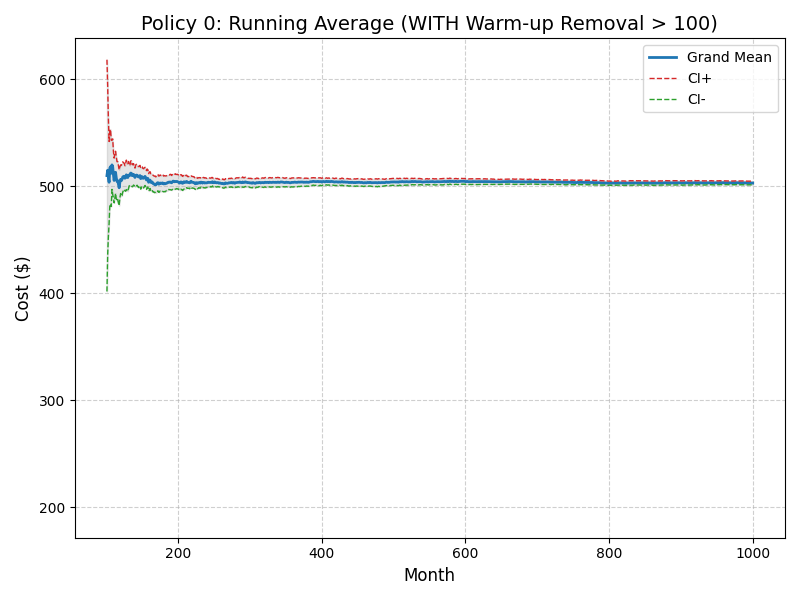
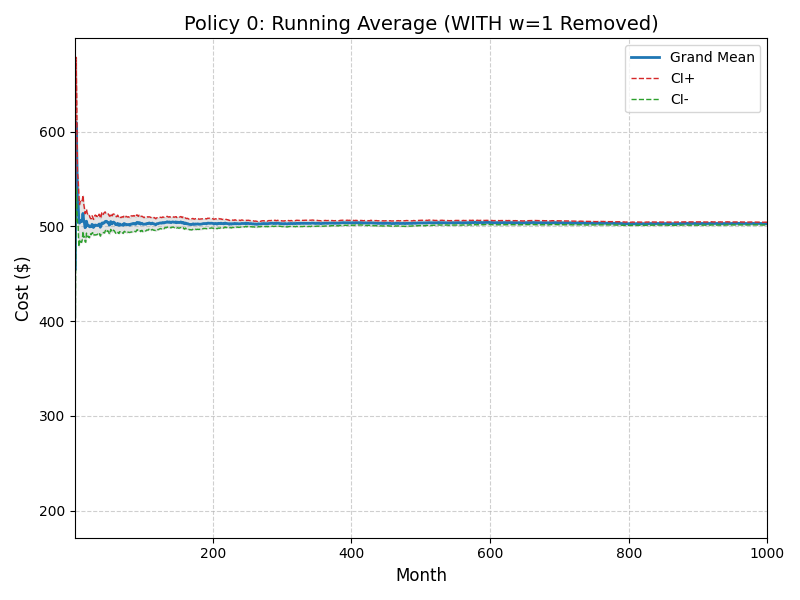
warmup

diff --git a/Assignment 2/markovchains.py b/Assignment 2/markovchains.py
@@ -3,7 +3,7 @@ import matplotlib.pyplot as plt
 import scipy.stats as st
 import pandas as pd
 
-# Define policies
+# Policies
 policies = {
     "Policy 0": {"P": np.array([[0.1, 0.9, 0.0, 0.0], [0.2, 0.0, 0.8, 0.0], [0.5, 0.0, 0.0, 0.5], [1.0, 0.0, 0.0, 0.0]]), "cost": [600, 200, 500, 1000]},
     "Policy 1": {"P": np.array([[0.1, 0.9, 0.0], [0.2, 0.0, 0.8], [1.0, 0.0, 0.0]]), "cost": [600, 200, 500]},
@@ -13,11 +13,9 @@ policies = {
 
 number_periods = 1000
 K = 20
-warmup_period = 100
-window_size = 30 # For Welch's moving average smoothing
-np.random.seed(42) # For reproducible results
+window_size = 15 # Window for Welch's moving average smoothing
+np.random.seed(42)
 
-# Matrix to store the exact cost incurred IN EACH MONTH
 # Shape: (K runs, N periods)
 raw_costs = {p: np.zeros((K, number_periods)) for p in policies}
 
@@ -31,54 +29,75 @@ for p_name, data in policies.items():
     F_s0[0] = 1.0
 
     for k in range(K):
-        # Initial state
         r = np.random.rand()
         i2 = 0
         while i2 < nr_states - 1 and r > F_s0[i2]: i2 += 1
         current_state = i2
         
         for i1 in range(1, number_periods + 1):
-            # Next state
             r = np.random.rand()
             next_state = 0
             while next_state < nr_states - 1 and r > F[current_state][next_state]:
                 next_state += 1
             current_state = next_state
             
-            # Record raw cost
             raw_costs[p_name][k, i1-1] = cost[current_state]
+
+
+# --- 2. DYNAMICALLY DETERMINE WARM-UP PERIOD (Multiple Replication Method) ---
+# We use Policy 0 as it has the most states and takes the longest to stabilize
+ensemble_avg_p0 = np.mean(raw_costs["Policy 0"], axis=0)
+smoothed_avg_p0 = pd.Series(ensemble_avg_p0).rolling(window=window_size, min_periods=1).mean().values
+
+# Find the long-term steady-state mean (average of the last 500 periods)
+long_term_mean = np.mean(smoothed_avg_p0[500:])
+
+# Define a strict tolerance band (e.g., within 2% of the long-term mean)
+tolerance = 0.02 * long_term_mean
+
+# Scan the smoothed curve to find where it permanently enters the tolerance band
+determined_warmup = 1
+for i in range(len(smoothed_avg_p0) - 50):
+    # Check if the next 50 periods all stay within the tolerance band
+    if np.all(np.abs(smoothed_avg_p0[i:i+50] - long_term_mean) < tolerance):
+        determined_warmup = i
+        break
+
+# We now have a scientifically backed warm-up period!
+warmup_period = max(determined_warmup, 1) # Ensure it is at least 1
+print(f"*** Welch's Analysis Complete ***")
+print(f"The algorithm determined the system reaches steady-state at Month {warmup_period}.")
+print(f"Applying w={warmup_period} to all subsequent Confidence Interval calculations...\n")
 
 results_std = []
 results_wu = []
 
-# --- 2. MULTIPLE REPLICATION METHOD & PLOTTING ---
+# --- 3. CALCULATIONS & PLOTTING ---
 for idx, p_name in enumerate(policies):
     data_raw = raw_costs[p_name] 
     
     # =========================================================
     # GRAPH A: MULTIPLE REPLICATION METHOD (Welch's Warm-up Check)
     # =========================================================
-    # Step 1: Ensemble Average across K runs for each time t
     ensemble_avg = np.mean(data_raw, axis=0)
-    # Step 2: Smoothed Moving Average
     smoothed_avg = pd.Series(ensemble_avg).rolling(window=window_size, min_periods=1).mean().values
     
     fig, ax_welch = plt.subplots(figsize=(8, 6))
     periods_all = np.arange(1, number_periods + 1)
     
     ax_welch.plot(periods_all, ensemble_avg, color='gray', alpha=0.3, label=f'Raw Ensemble Avg (K={K})')
-    if p_name != "Policy 3": # Policy 3 has no variance to smooth
+    if p_name != "Policy 3": 
         ax_welch.plot(periods_all, smoothed_avg, color='tab:red', linewidth=3, label=f'Smoothed Moving Avg (Window={window_size})')
     
-    ax_welch.axvline(x=warmup_period, color='black', linestyle='--', linewidth=2, label=f'Warm-up Cutoff (w={warmup_period})')
+    # Draw the dynamically discovered line
+    ax_welch.axvline(x=warmup_period, color='black', linestyle='--', linewidth=2, label=f'Determined Warm-up (w={warmup_period})')
     ax_welch.set_title(f'{p_name}: Welch\'s Multiple Replication Method', fontsize=14)
     ax_welch.set_xlabel('Simulation Period (Months)', fontsize=12)
     ax_welch.set_ylabel('Average Cost ($)', fontsize=12)
     ax_welch.grid(True, linestyle='--', alpha=0.6)
     ax_welch.legend()
-    
     plt.tight_layout()
-    plt.savefig(f"Graph_{idx+1}A_{p_name.replace(' ', '_')}_Welch_Warmup.png")
+    plt.savefig(f"Graph_{idx+1}A_{p_name.replace(' ', '_')}_Welch.png")
     plt.close()
 
     # =========================================================
@@ -91,8 +110,9 @@ for idx, p_name in enumerate(policies):
     
     results_std.append({
         "Policy": p_name, 
-        "Grand Mean Cost ($)": round(mean_std[-1], 2), 
-        "95% CI (+/-)": round(ci_std[-1], 2)
+        "Grand Mean Cost ($)": f"{mean_std[-1]:.2f}", 
+        "95% CI (+/-)": f"{ci_std[-1]:.2f}",
+        "95% CI Interval": f"[{mean_std[-1] - ci_std[-1]:.2f}, {mean_std[-1] + ci_std[-1]:.2f}]"
     })
     
     fig, ax_std = plt.subplots(figsize=(8, 6))
@@ -108,7 +128,6 @@ for idx, p_name in enumerate(policies):
     ax_std.set_ylabel('Cost ($)', fontsize=12)
     ax_std.grid(True, linestyle='--', alpha=0.6)
     
-    # Calculate limits for visual consistency
     data_warmup = data_raw[:, warmup_period:] 
     run_avg_wu = np.cumsum(data_warmup, axis=1) / np.arange(1, number_periods - warmup_period + 1)
     mean_wu = np.mean(run_avg_wu, axis=0)
@@ -121,8 +140,8 @@ for idx, p_name in enumerate(policies):
         ax_std.set_ylim(y_min, y_max)
         ax_std.legend()
     else:
-        ax_std.set_ylim(550, 650)
-        
+        ax_std.set_ylim(550, 650)  
+    
     plt.tight_layout()
     plt.savefig(f"Graph_{idx+1}B_{p_name.replace(' ', '_')}_NO_warmup.png")
     plt.close() 
@@ -132,8 +151,9 @@ for idx, p_name in enumerate(policies):
     # =========================================================
     results_wu.append({
         "Policy": p_name, 
-        "Grand Mean Cost ($)": round(mean_wu[-1], 2), 
-        "95% CI (+/-)": round(ci_wu[-1], 2)
+        "Grand Mean Cost ($)": f"{mean_wu[-1]:.2f}", 
+        "95% CI (+/-)": f"{ci_wu[-1]:.2f}",
+        "95% CI Interval": f"[{mean_wu[-1] - ci_wu[-1]:.2f}, {mean_wu[-1] + ci_wu[-1]:.2f}]"
     })
 
     fig, ax_wu = plt.subplots(figsize=(8, 6))
@@ -150,18 +170,16 @@ for idx, p_name in enumerate(policies):
     else:
         ax_wu.set_ylim(550, 650)
     
-    ax_wu.set_title(f'{p_name}: Running Average (WITH Warm-up Removal > {warmup_period})', fontsize=14)
+    ax_wu.set_title(f'{p_name}: Running Average (WITH w={warmup_period} Removed)', fontsize=14)
     ax_wu.set_xlabel('Month', fontsize=12)
     ax_wu.set_ylabel('Cost ($)', fontsize=12)
     ax_wu.grid(True, linestyle='--', alpha=0.6)
-    
+    ax_wu.set_xlim(warmup_period, number_periods)
     plt.tight_layout()
     plt.savefig(f"Graph_{idx+1}C_{p_name.replace(' ', '_')}_WITH_warmup.png")
     plt.close()
 
-# --- 3. PRINT NUMERICAL RESULTS ---
-print("All 12 Multiple Replication graphs have been successfully generated and saved!\n")
-
+# --- 4. PRINT NUMERICAL RESULTS ---
 df_std = pd.DataFrame(results_std)
 print("--- MULTIPLE REPLICATION RESULTS (NO WARM-UP REMOVAL) ---")
 print(df_std.to_string(index=False))
